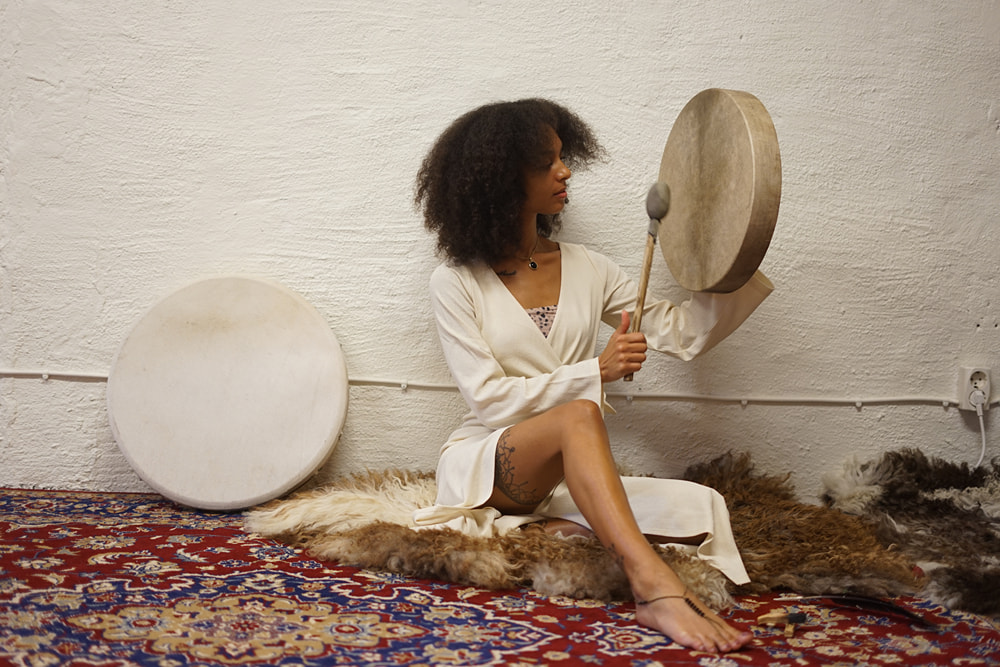
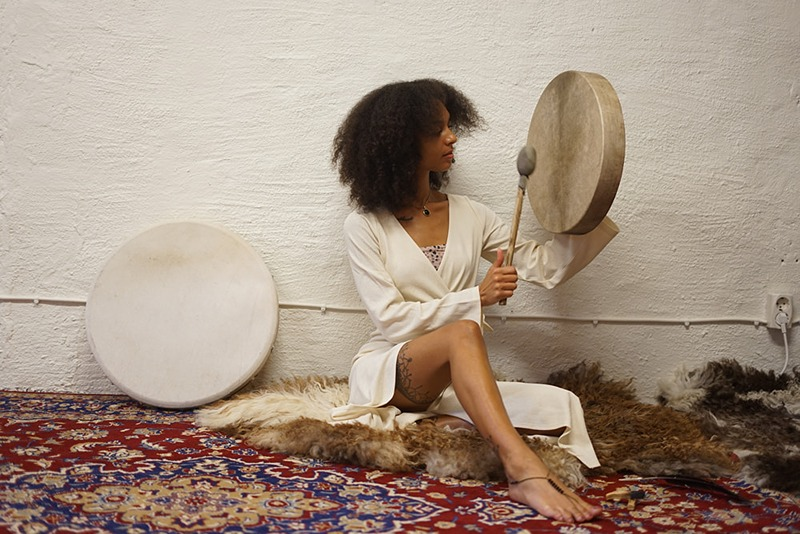
fix:resize about image to save on load time

Changed region(s): [[0.0938, 0.7491, 0.4688, 0.9288], [0.5938, 0.9288, 0.6562, 0.9588], [0.5, 0.8989, 0.5312, 0.9588]]

diff --git a/index.html b/index.html
@@ -85,6 +85,7 @@
             <section>
                 <div class="container-mission">
                     <div>
+                        <!-- Very large image so a separate one for mobiles -->
                         <img src="assets/images/mission-image-mobile.jpg"
                             alt="woman sitting on the floor with a feather and praying" id="mission-image-mobile">
                         <img src="assets/images/mission-image.jpg"

diff --git a/assets/css/style.css b/assets/css/style.css
@@ -147,7 +147,7 @@ main {
 }
 
 #mission-image-mobile {
-    height: 470px;
+    height: 400px;
     position: relative;
     right: 1.9rem;
 }
@@ -205,7 +205,7 @@ main {
 }
 
 #about-image {
-    height: 470px;
+    height: 400px;
     margin-bottom: 1rem;
 }
 
@@ -471,6 +471,7 @@ footer i {
 
     /* Hero image */
     .hero-image {
+        background: url(../images/hero-image.jpg) no-repeat center center/cover;
         height: 800px;
     }
 
